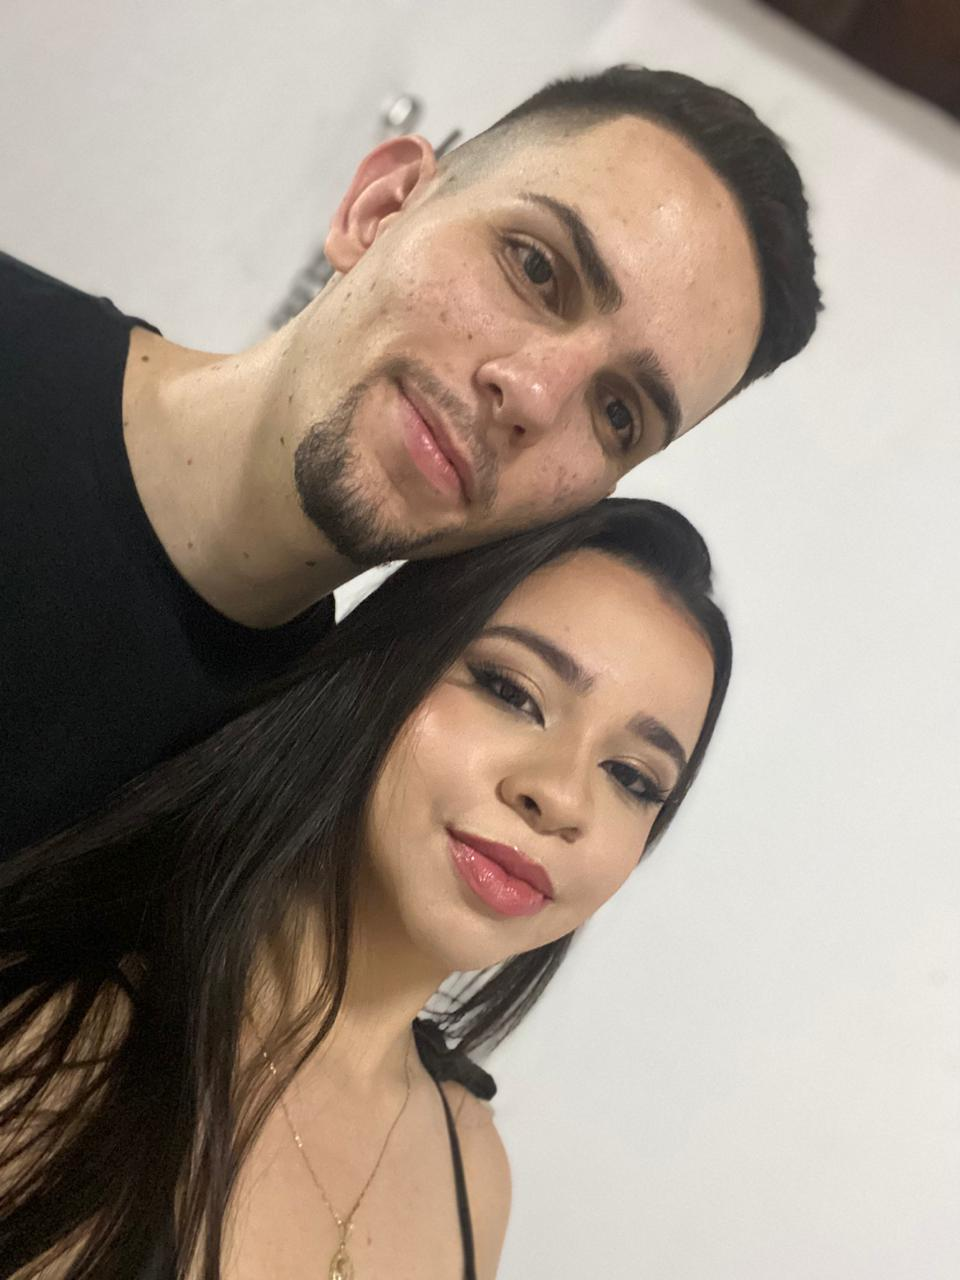
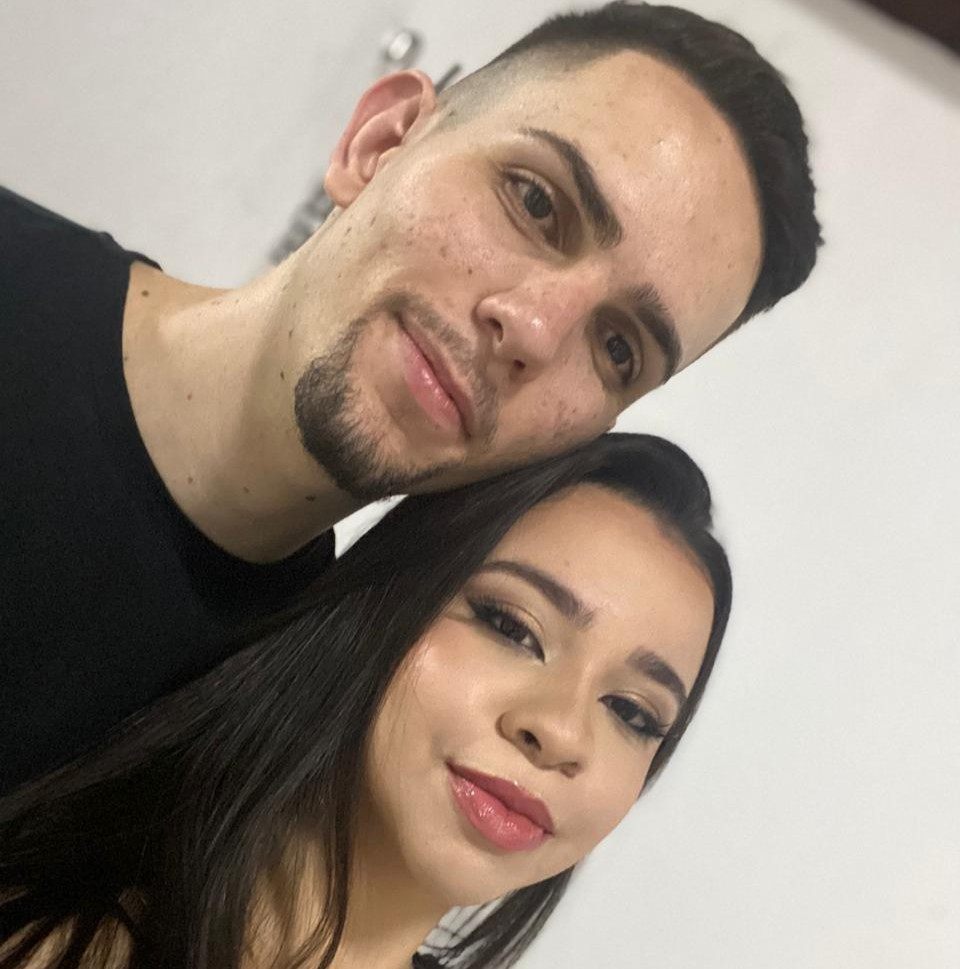
alterações nas imagens e código

diff --git a/index.html b/index.html
@@ -48,13 +48,13 @@
     }
 
     .carrossel {
-      position: relative;
+       position: relative;
       display: flex;
       align-items: center;
       justify-content: center;
       width: 100%;
-      max-width: 500px;
-      height: 300px;
+      max-width: 400px;
+      height: 400px;
       margin: 20px auto;
       overflow: hidden;
       border-radius: 15px;
